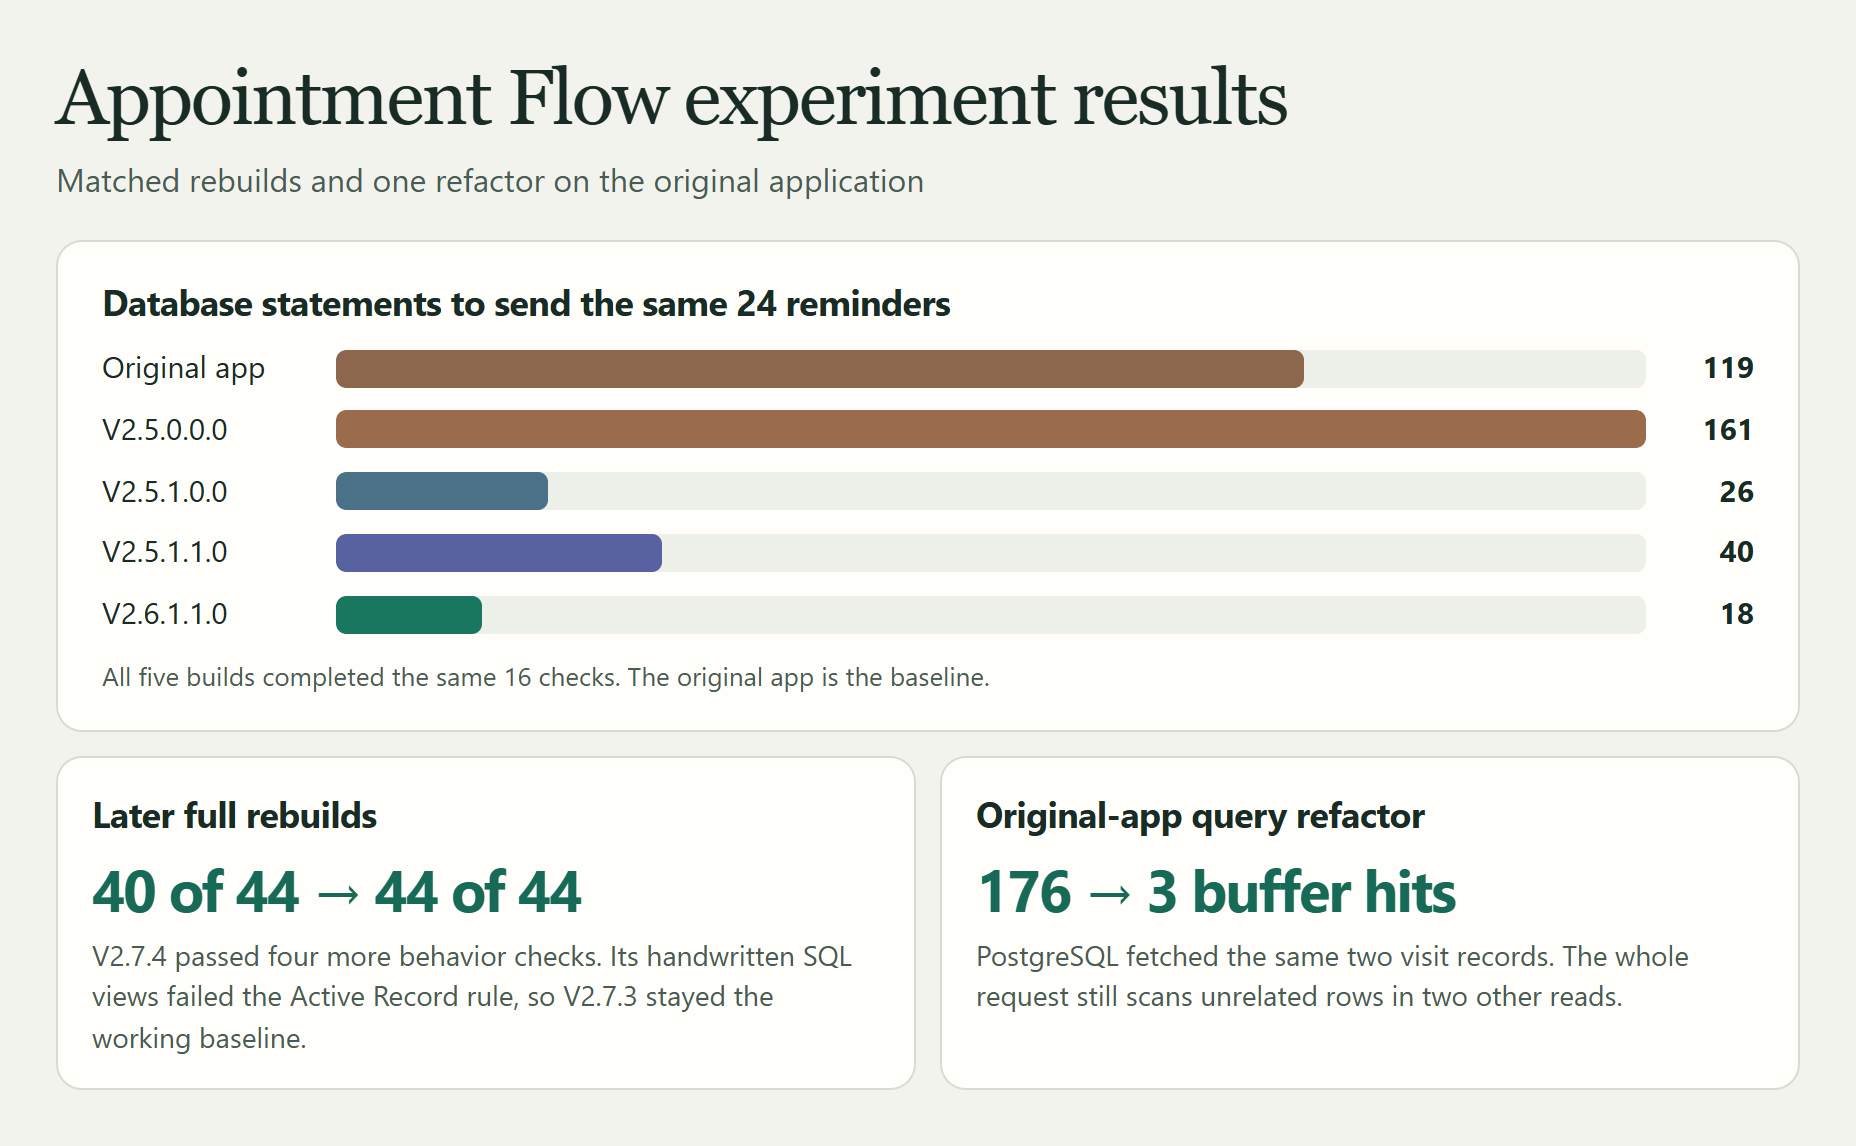
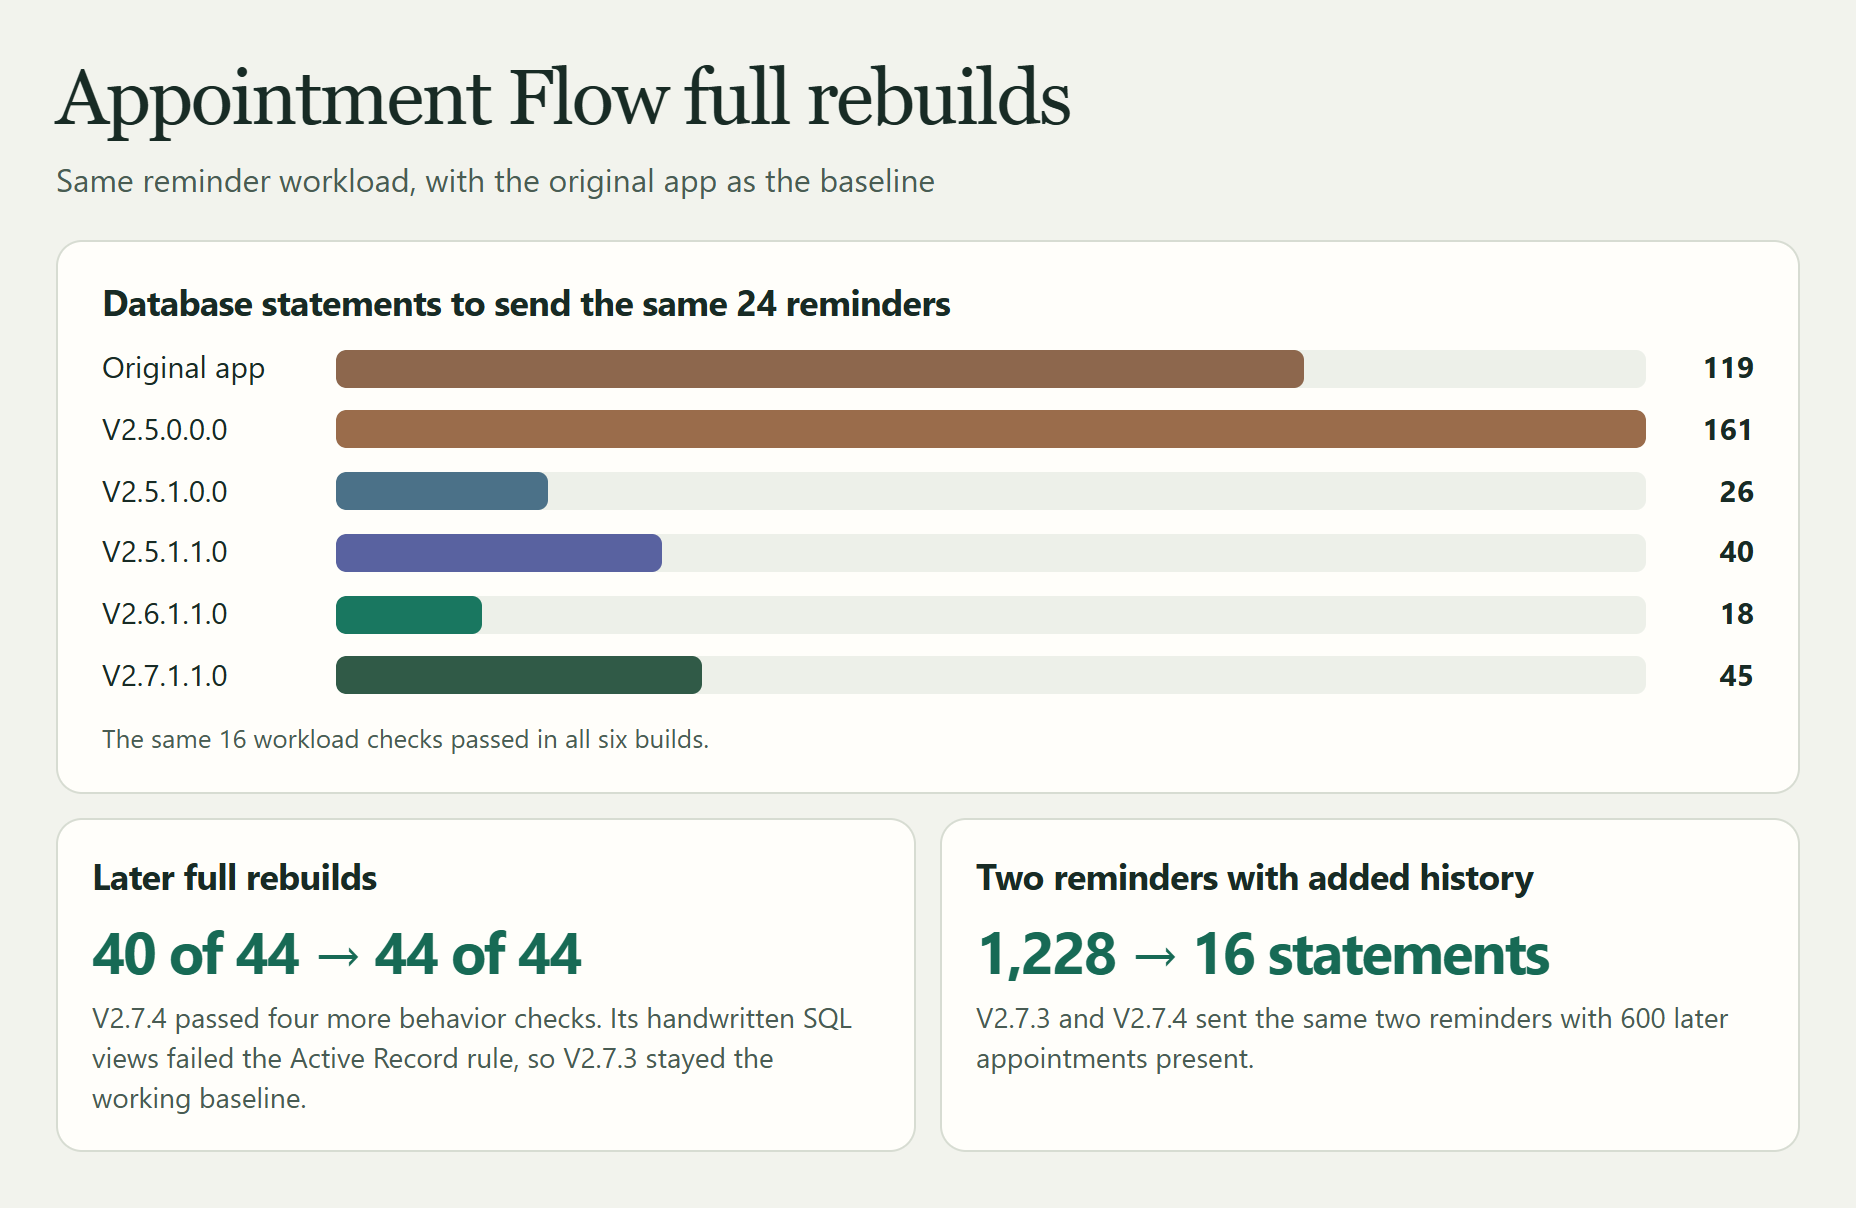
Show full rebuilds and original-app refactors separately

diff --git a/dashboard/index.html b/dashboard/index.html
@@ -23,14 +23,14 @@
   <aside class="sidebar">
     <div class="mark"><span class="mark-icon" aria-hidden="true">≡</span><span>Appointment Flow<br>Harness experiment</span></div>
     <nav aria-label="Experiment pages">
-      <a href="#overview">Overview</a><a href="#database">Database audit</a><a href="#quality">Code quality</a><a href="#refactor">Refactor</a><a href="#versions">Harness versions</a><a href="#runs">Run log</a>
+      <a href="#overview">Overview</a><a href="#database">Database audit</a><a href="#quality">Code quality</a><a href="#refactor">Refactor</a><a href="#original-refactor">Original-app refactors</a><a href="#versions">Harness versions</a><a href="#runs">Run log</a>
     </nav>
     <div class="side-status"><span class="dot"></span>5 builds in the shared benchmark<br>Later trials in Harness versions</div>
   </aside>
   <main>
     <div class="mast"><span>Rails / React rebuild comparison</span><span>16 Nov 2026 · PostgreSQL 17.11</span></div>
     <section id="overview" class="view">
-      <header class="intro"><h1>Appointment Flow comparison</h1><p class="lede">The original <strong>appointment-flow</strong> is the baseline. This shared workload compares it with four standalone builds. Later rebuilds and scoped refactors appear under Harness versions.</p></header>
+      <header class="intro"><h1>Appointment Flow comparison</h1><p class="lede">The original <strong>appointment-flow</strong> is the baseline. This shared workload compares it with four standalone builds. The six-build summary includes the first V2.7 rebuild. The original-app refactors have their own comparison.</p></header>
       <div class="summary snapshot" aria-label="What has been measured">
         <article class="card"><div class="label">Baseline · original project</div><strong class="metric project">appointment-flow</strong><span class="small">Source reviewed. The same database test is complete.</span></article>
         <article class="card"><div class="label">Same database test completed</div><strong class="metric">5 builds</strong><span class="small">The original plus V2.5.0.0.0, V2.5.1.0.0, V2.5.1.1.0, and V2.6.1.1.0. All five passed the same 16 checks.</span></article>
@@ -51,6 +51,7 @@
       </div>
       <article class="card section"><h2>What changed in V2.6.1.1.0</h2><p>The implementation check cut the unchanged retry from <strong>2,410 to 8 rows returned to Rails</strong> in a separate 1,200-appointment fixture. Independent review brought the leadership report from <strong>183 to 6 queries</strong> at 60 clinics. The shared benchmark then cut the 24-reminder batch from <strong>41 to 18 statements</strong> by grouping its writes.</p><p class="sources"><a href="../reports/V2.6_Run_Report.md">How each change was verified</a></p></article>
       <article class="card section"><h2>Measured builds</h2><div class="tablewrap"><table id="build-table" class="wide"></table></div></article>
+      <article class="card section"><h2>One rebuild per harness, compared with the original</h2><p>The rebuilds started from the assignment with the selected harness and ran through implementation and any configured review loop. The six measured builds sent the same 24 reminders. The chart shows the first V2.7 rebuild alongside the original and earlier versions.</p><img src="experiment-results.png" alt="The original used 119 database statements for 24 reminders. V2.6 used 18 and the first V2.7 rebuild used 45." style="display:block;max-width:100%;height:auto" width="928"><p class="sources"><a href="../benchmarks/V2.7_Compared_Workload.csv" download>Six-build benchmark</a><a href="#original-refactor">See the original-app refactors</a></p></article>
     </section>
     <section id="database" class="view" hidden>
       <header class="intro"><h1>What the database did</h1><p class="lede">Rails and PostgreSQL recorded the statements for every measured run. The tables compare the original baseline and four standalone builds on the same cases.</p></header>
@@ -120,7 +121,17 @@
         <article class="card"><h2>Full V2.7 clean-room rebuild</h2><p><strong>Frozen and benchmarked.</strong> V2.7.1.1.0 passed seven configured checks, two browser scenarios, and all 16 shared workload checks after repairs. With 600 later appointments present, both V2.6 and V2.7 confirmed the intended appointment. The database returned 9 rows to V2.6, 609 to the first V2.7 checkpoint, and 608 to the final V2.7 build.</p><p class="sources"><a href="../reports/V2.7_Clean_Room_Comparison.md">Build comparison</a> · <a href="../benchmarks/V2.7_Compared_Workload.csv" download>Measured workloads</a> · <a href="../packages/Apex_Appointment_Flow_Harness_V2.7.1.1.0.zip" download>V2.7 clean-room package</a></p></article>
       </div>
       <article class="card section"><h2>Second refactor trial · V2.6.1.2</h2><p><strong>REVISE.</strong> The structure-only change preserved the original results and read counts. The trial also tested plain Active Record for weekly totals and for the review lookup. The final controller returned the same appointment list and kept one SQL expression for the review lookup.</p><p>On a fixture with 500 additional out-of-day reviews and 500 additional weekly appointment times, the frozen V2.6 confirmed tab used 8 reads and returned 10 rows to Rails. The refactor used 13 reads and returned 13 rows. The alternative plain Active Record review lookup used 14 reads and returned 514 rows. All three returned the same confirmed appointment.</p><p class="sources"><a href="../reports/V2.6.1.2_Refactor_Harness.md">Second refactor harness</a> · <a href="../reports/V2.6.1.2_Staff_Appointments_Result.md">Second refactor results</a></p></article>
+    </section>
+    <section id="original-refactor" class="view" hidden>
+      <header class="intro"><h1>Refactors of the original app</h1><p class="lede">These trials use copies of the original appointment-flow. The staff appointment experiments compare two versions of the same refactor. The patient appointment experiments improve history and access queries on a separate copy.</p></header>
+      <img src="original-refactor-results.png" alt="Staff appointment results showed 1,852, 41, and 31 Rails rows on the dated view. A later patient history lookup fell from 176 shared buffer hits to 3." style="display:block;max-width:100%;height:auto" width="928">
       <article class="card section"><h2>Original app refactor · V2.7.2.1.0</h2><p><strong>Both trials compared.</strong> The first copy contained old project guidance. The second excluded it before launch. On 22 common requests, the first refactor matched all original responses and the isolated refactor matched 21. The difference concerns whether a confirmation committed during a read appears immediately.</p><p>For the same dated view with added history, the original returned 1,852 database rows, the first refactor 41, and the isolated refactor 31. With 300 past visits added to the undated view, the counts were 314, 322, and 14. The isolated version reduced work but added complex time-zone filtering. Both remain REVISE under the strict harness. These two runs do not establish that removing old guidance caused the differences.</p><p class="sources"><a href="../reports/V2.7.2_Refactor_Isolation_Comparison.md">Two-trial comparison and decision</a> · <a href="../benchmarks/V2.7.2_Refactor_Comparison.csv" download>All measured responses</a> · <a href="../reports/V2.7.2_Original_Refactor_Result.md">First trial results</a></p></article>
+      <article class="card section"><h2>Patient appointment refactor</h2><p>V2.7.5.1.0 exercised the original app in a disposable clone. All 330 measured GETs returned the same bodies and cursors across index variants. Only the app database received indexes.</p>
+      <div class="tablewrap"><table class="wide"><thead><tr><th>Database operation in the original-app refactor</th><th>Existing indexes</th><th>Two app-owned indexes</th></tr></thead><tbody>
+      <tr><td>Tracked-only source lookup</td><td>Scans and rejects 5,577 mirror rows</td><td>Index seek with zero heap fetches</td></tr>
+      <tr><td>Load two tracked visits</td><td>176 shared PostgreSQL buffer hits</td><td>3 shared buffer hits</td></tr>
+      </tbody></table></div><p class="explain">Full-request growth remains REVISE. The clinic membership check and one upcoming-history join still scan unrelated rows.</p></article>
+      <p class="sources"><a href="../reports/PATIENT_APPOINTMENTS_REFACTOR.md">Patient appointment query refactor</a><a href="../reports/PATIENT_APPOINTMENTS_MIRROR_INDEX.md">Index follow-up and remaining query work</a><a href="../benchmarks/V2.7.5_Patient_Appointment_Index_Workload.csv" download>Measured request comparisons</a></p>
     </section>
     <section id="versions" class="view" hidden>
       <header class="intro"><h1>Harness versions</h1><p class="lede">Compare the instructions, evidence, and version decisions across the experiment.</p></header>
@@ -130,11 +141,6 @@
       <tr><td>V2.7.3.1.0</td><td>40 of 44</td><td>1,228</td><td>Working baseline. Recipient-safety and growth gaps remain.</td></tr>
       <tr><td>V2.7.4.1.0</td><td>44 of 44</td><td>16</td><td>Authored SQL in views and functions failed the Active Record rule.</td></tr>
       </tbody></table></div></article>
-      <article class="card section"><h2>Patient appointment refactor</h2><p>V2.7.5.1.0 exercised the original app in a disposable clone. All 330 measured GETs returned the same bodies and cursors across index variants. Only the app database received indexes.</p>
-      <div class="tablewrap"><table class="wide"><thead><tr><th>Database operation in the original-app refactor</th><th>Existing indexes</th><th>Two app-owned indexes</th></tr></thead><tbody>
-      <tr><td>Tracked-only source lookup</td><td>Scans and rejects 5,577 mirror rows</td><td>Index seek with zero heap fetches</td></tr>
-      <tr><td>Load two tracked visits</td><td>176 shared PostgreSQL buffer hits</td><td>3 shared buffer hits</td></tr>
-      </tbody></table></div><p class="explain">Full-request growth remains REVISE. The clinic membership check and one upcoming-history join still scan unrelated rows.</p></article>
       <article id="paired-runs" class="card section"><h2>Harness input and application output</h2><p>Each archive includes both. The evidence column distinguishes verified inputs, historical matches, and unfinished trials.</p><p class="sources"><a href="../runs/README.md">Paired run index</a></p><div class="tablewrap"><table class="wide"><thead><tr><th>Run</th><th>Scope</th><th>Evidence</th><th>Archive</th></tr></thead><tbody><tr><td>Original appointment-flow</td><td>Historical product control</td><td>Includes the preserved project guidance. No single frozen launch input is documented</td><td><a href="../runs/Original.zip" download>Paired ZIP</a></td></tr>
 <tr><td>V2</td><td>Historical source and harness</td><td>Archived input manifest matches the saved application workspace</td><td><a href="../runs/V2.zip" download>Paired ZIP</a></td></tr>
 <tr><td>V2.1</td><td>Historical source and harness</td><td>Input manifest matches the nested harness preserved with the application</td><td><a href="../runs/V2.1.zip" download>Paired ZIP</a></td></tr>
@@ -484,7 +490,7 @@ node("run-table").innerHTML=table(["Build time (minutes)","Rails tests / asserti
   b.api ?? "—",
   b.rev ? `<code>${b.rev}</code>` : status("Waiting for the build")
 ]);
-const routes=["overview","database","quality","refactor","versions","runs"];
+const routes=["overview","database","quality","refactor","original-refactor","versions","runs"];
 function navigate(){
   const requested = location.hash.substring(1);
   const current = requested === "original-job" ? "database" : routes.includes(requested) ? requested : "overview";

diff --git a/README.md b/README.md
@@ -6,7 +6,7 @@ I tested how different coding instructions changed the Rails and React apps AI a
 
 [Reminder benchmark](#the-reminder-benchmark) · [Correctness and Active Record](#the-working-baseline-and-the-query-rule) · [How the versions were judged](#how-i-decided-which-version-was-better)
 
-![Matched reminder workload and later decisions. Statements fell from 119 to 18 for the same 24 reminders. The later build passed four more checks and failed the Active Record rule. A scoped index change cut buffer hits from 176 to 3 for two visit records.](dashboard/experiment-results.png)
+![Full rebuilds compared with the original app. The 24-reminder run used 119 statements in the original, 18 in V2.6.1.1.0, and 45 in V2.7.1.1.0. A later V2.7 comparison passed four more checks and failed the Active Record rule.](dashboard/experiment-results.png)
 
 **28 run bundles** pair the recovered instructions with the application output. The index marks verified inputs, historical matches, and interrupted builds. [Browse the paired runs](runs/README.md)
 
@@ -31,6 +31,8 @@ A `0` means that part has no separate revision in the label. The base can still 
 **Paired ZIPs** include the recovered harness input and app output. **Harness ZIPs** contain guidance for designs with no completed app in the record. Full-build benchmarks, focused refactors, and historical source reviews each cover different evidence.
 
 ### The original appointment-flow and its refactors
+
+![Original app and two staff appointment refactors. On the dated view, 1,852 rows fell to 41 and 31. On the upcoming view, 314 rows changed to 322 and 14. A separate patient history refactor reduced buffer hits from 176 to 3 for one lookup.](dashboard/original-refactor-results.png)
 
 | Version or trial | What changed and what we found | Files |
 |---|---|---|
@@ -95,8 +97,10 @@ Each build sent the same 24 synthetic reminders and passed the same 16 checks. T
 | V2.5.1.0.0 | Standalone Codex | 26 |
 | V2.5.1.1.0 | Standalone Codex | 40 |
 | V2.6.1.1.0 | Standalone Codex | 18 |
+| V2.7.1.1.0 | Standalone Codex | 45 |
 
 - **85% fewer statements in V2.6.1.1.0.** Grouping equivalent writes brought the batch down from the original’s 119 statements to 18.
+- **62% fewer statements in V2.7.1.1.0.** It used 45 statements for the same 24 sends. V2.6 used fewer writes and returned fewer rows for the matched reply under growth. [Six-build workload](benchmarks/V2.7_Compared_Workload.csv) · [Tradeoffs](reports/V2.7_Clean_Room_Comparison.md)
 - **Query count can hide growth.** V2.5.1.0.0 still sent the same two reminders in 26 statements after adding 600 later appointments. Rows returned to Rails rose from 13 to 1,213. [Run report](reports/V2.6_Run_Report.md) · [Matched workload](benchmarks/V2.6_Compared_Workload.csv)
 
 ### The working baseline and the query rule
